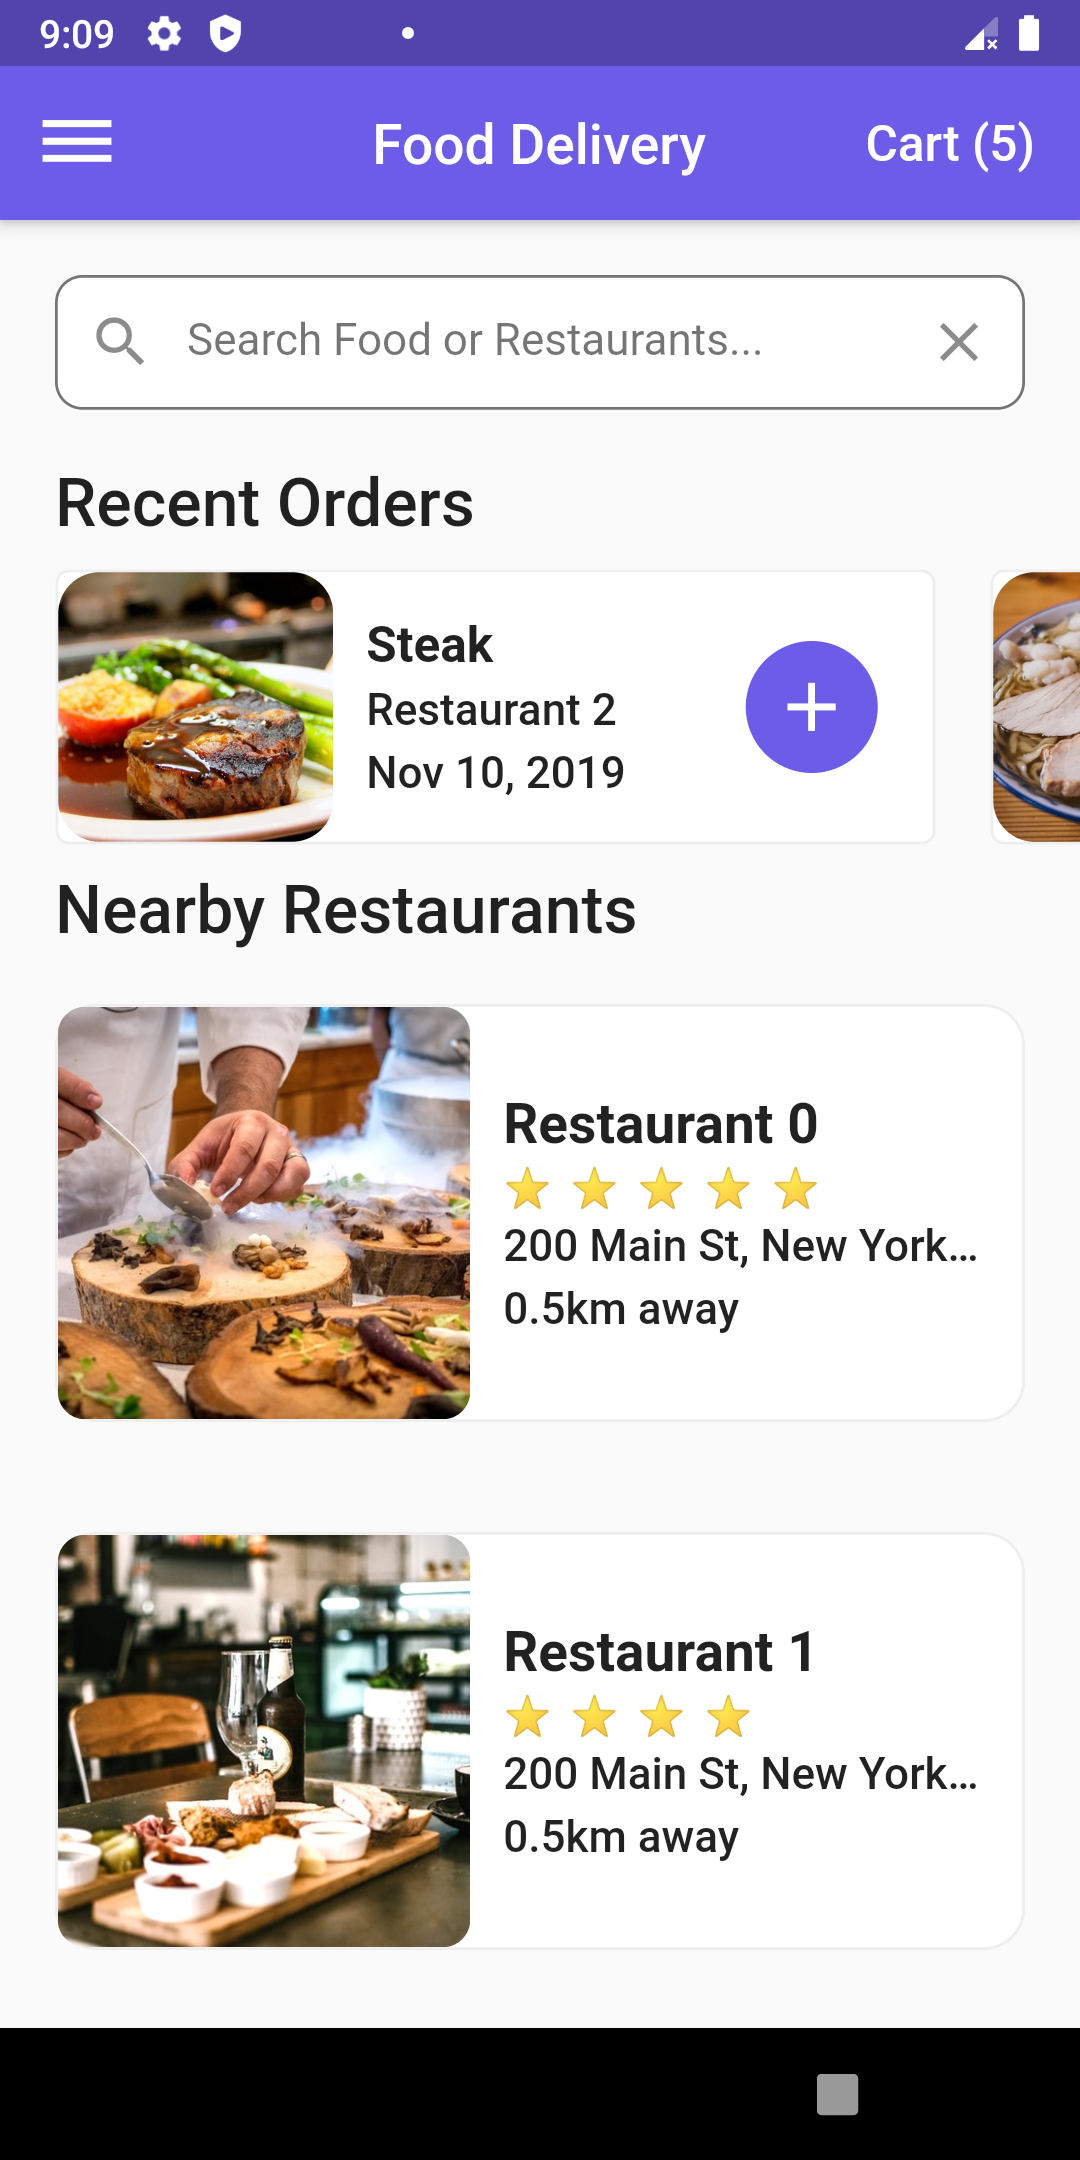
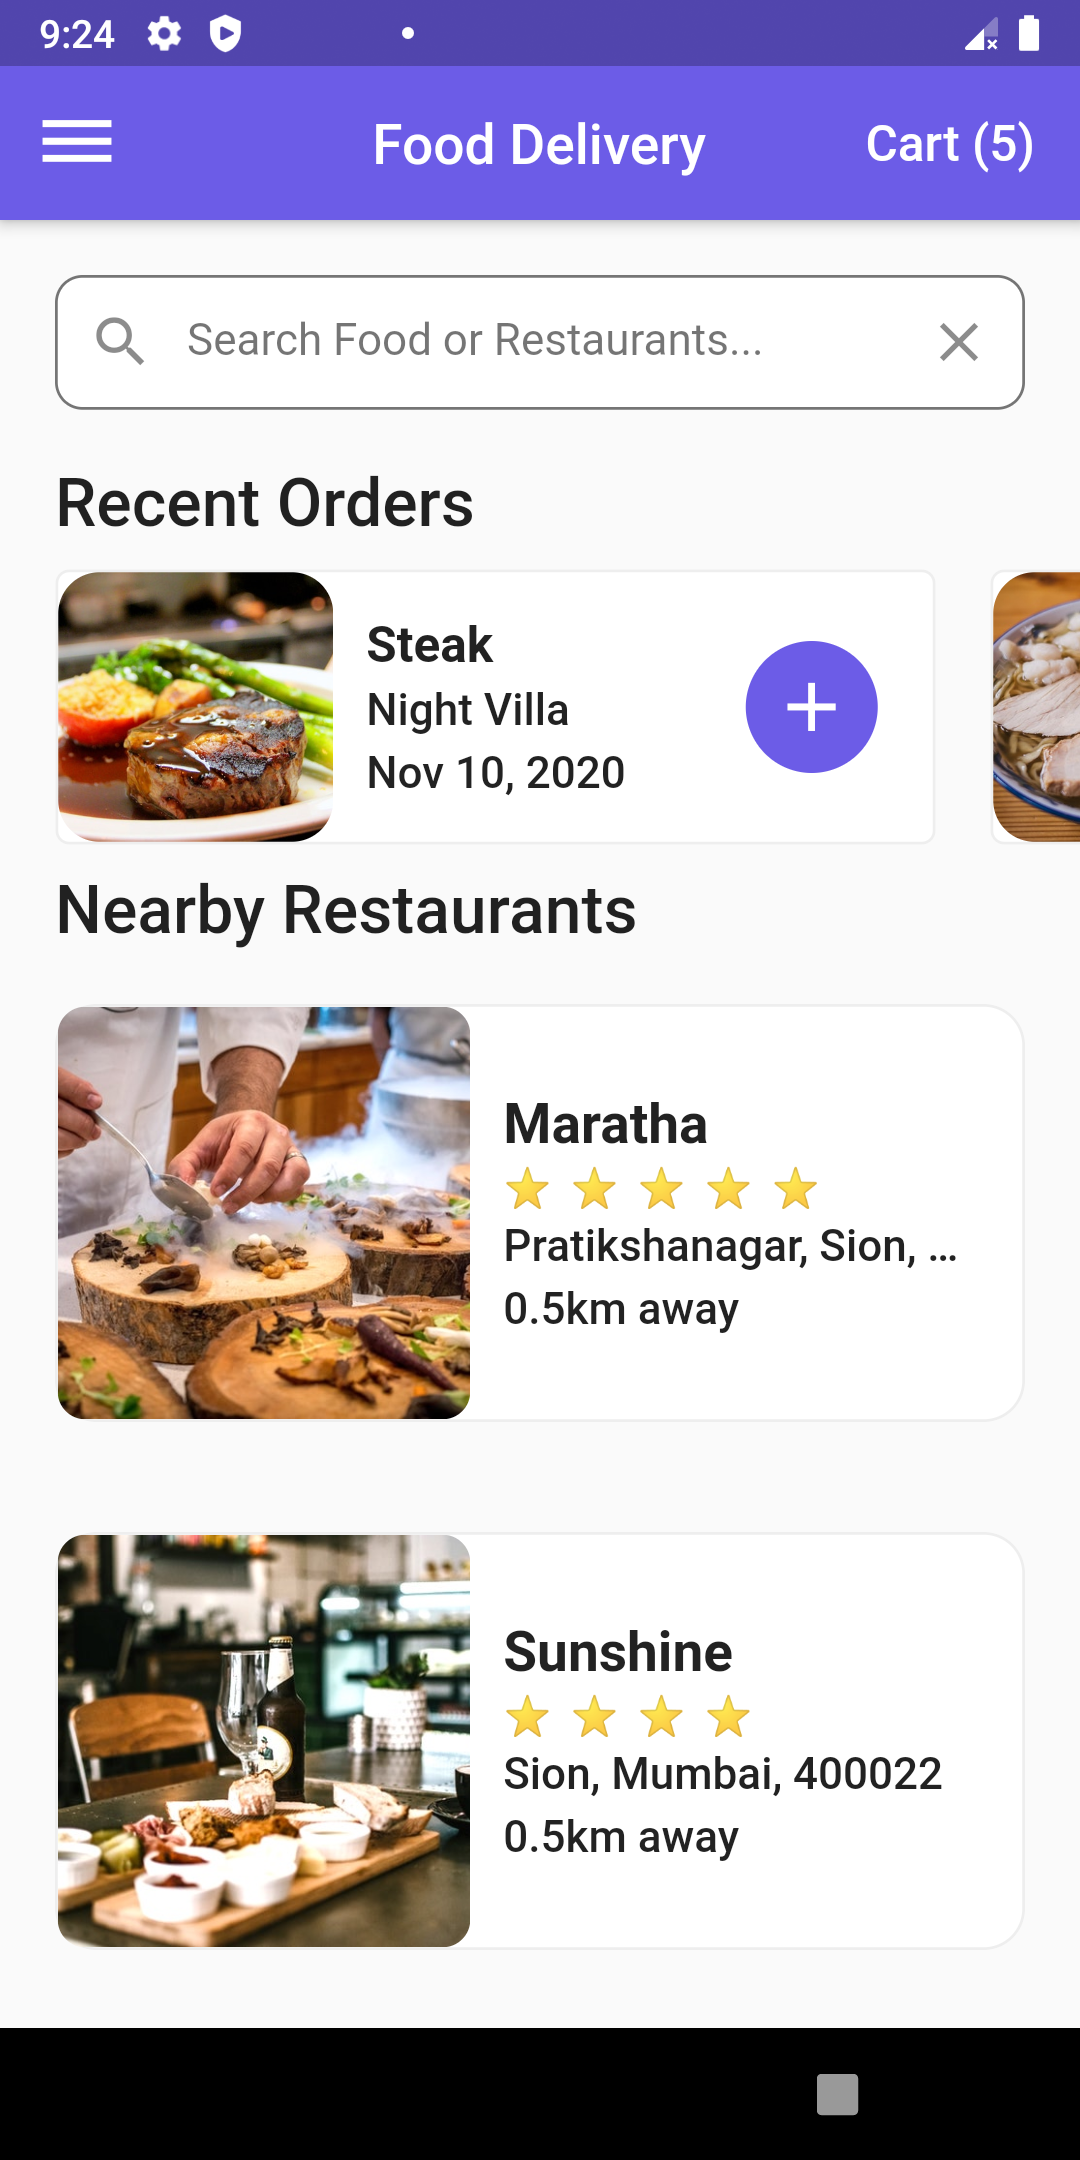
Screenshots updated and minor changes

diff --git a/food_delivery_ui/lib/data/data.dart b/food_delivery_ui/lib/data/data.dart
@@ -24,36 +24,36 @@ final _salmon = Food(
 // Restaurants
 final _restaurant0 = Restaurant(
   imageUrl: 'assets/images/restaurant0.jpg',
-  name: 'Restaurant 0',
-  address: '200 Main St, New York, NY',
+  name: 'Maratha',
+  address: 'Pratikshanagar, Sion, 400022',
   rating: 5,
   menu: [_burrito, _steak, _pasta, _ramen, _pancakes, _burger, _pizza, _salmon],
 );
 final _restaurant1 = Restaurant(
   imageUrl: 'assets/images/restaurant1.jpg',
-  name: 'Restaurant 1',
-  address: '200 Main St, New York, NY',
+  name: 'Sunshine',
+  address: 'Sion, Mumbai, 400022',
   rating: 4,
   menu: [_steak, _pasta, _ramen, _pancakes, _burger, _pizza],
 );
 final _restaurant2 = Restaurant(
   imageUrl: 'assets/images/restaurant2.jpg',
-  name: 'Restaurant 2',
-  address: '200 Main St, New York, NY',
+  name: 'Night Villa',
+  address: 'Bandra, Mumbai',
   rating: 4,
   menu: [_steak, _pasta, _pancakes, _burger, _pizza, _salmon],
 );
 final _restaurant3 = Restaurant(
   imageUrl: 'assets/images/restaurant3.jpg',
-  name: 'Restaurant 3',
-  address: '200 Main St, New York, NY',
+  name: 'Tropical',
+  address: 'Andheri, Mumbai',
   rating: 2,
   menu: [_burrito, _steak, _burger, _pizza, _salmon],
 );
 final _restaurant4 = Restaurant(
   imageUrl: 'assets/images/restaurant4.jpg',
-  name: 'Restaurant 4',
-  address: '200 Main St, New York, NY',
+  name: 'Hot Valley',
+  address: 'Ghatkopar, Mumbai',
   rating: 3,
   menu: [_burrito, _ramen, _pancakes, _salmon],
 );
@@ -71,31 +71,31 @@ final currentUser = User(
   name: 'Rebecca',
   orders: [
     Order(
-      date: 'Nov 10, 2019',
+      date: 'Nov 10, 2020',
       food: _steak,
       restaurant: _restaurant2,
       quantity: 1,
     ),
     Order(
-      date: 'Nov 8, 2019',
+      date: 'Nov 8, 2020',
       food: _ramen,
       restaurant: _restaurant0,
       quantity: 3,
     ),
     Order(
-      date: 'Nov 5, 2019',
+      date: 'Nov 5, 2020',
       food: _burrito,
       restaurant: _restaurant1,
       quantity: 2,
     ),
     Order(
-      date: 'Nov 2, 2019',
+      date: 'Nov 2, 2020',
       food: _salmon,
       restaurant: _restaurant3,
       quantity: 1,
     ),
     Order(
-      date: 'Nov 1, 2019',
+      date: 'Nov 1, 2020',
       food: _pancakes,
       restaurant: _restaurant4,
       quantity: 1,
@@ -103,31 +103,31 @@ final currentUser = User(
   ],
   cart: [
     Order(
-      date: 'Nov 11, 2019',
+      date: 'Nov 11, 2020',
       food: _burger,
       restaurant: _restaurant2,
       quantity: 2,
     ),
     Order(
-      date: 'Nov 11, 2019',
+      date: 'Nov 11, 2020',
       food: _pasta,
       restaurant: _restaurant2,
       quantity: 1,
     ),
     Order(
-      date: 'Nov 11, 2019',
+      date: 'Nov 11, 2020',
       food: _salmon,
       restaurant: _restaurant3,
       quantity: 1,
     ),
     Order(
-      date: 'Nov 11, 2019',
+      date: 'Nov 11, 2020',
       food: _pancakes,
       restaurant: _restaurant4,
       quantity: 3,
     ),
     Order(
-      date: 'Nov 11, 2019',
+      date: 'Nov 11, 2020',
       food: _burrito,
       restaurant: _restaurant1,
       quantity: 2,
